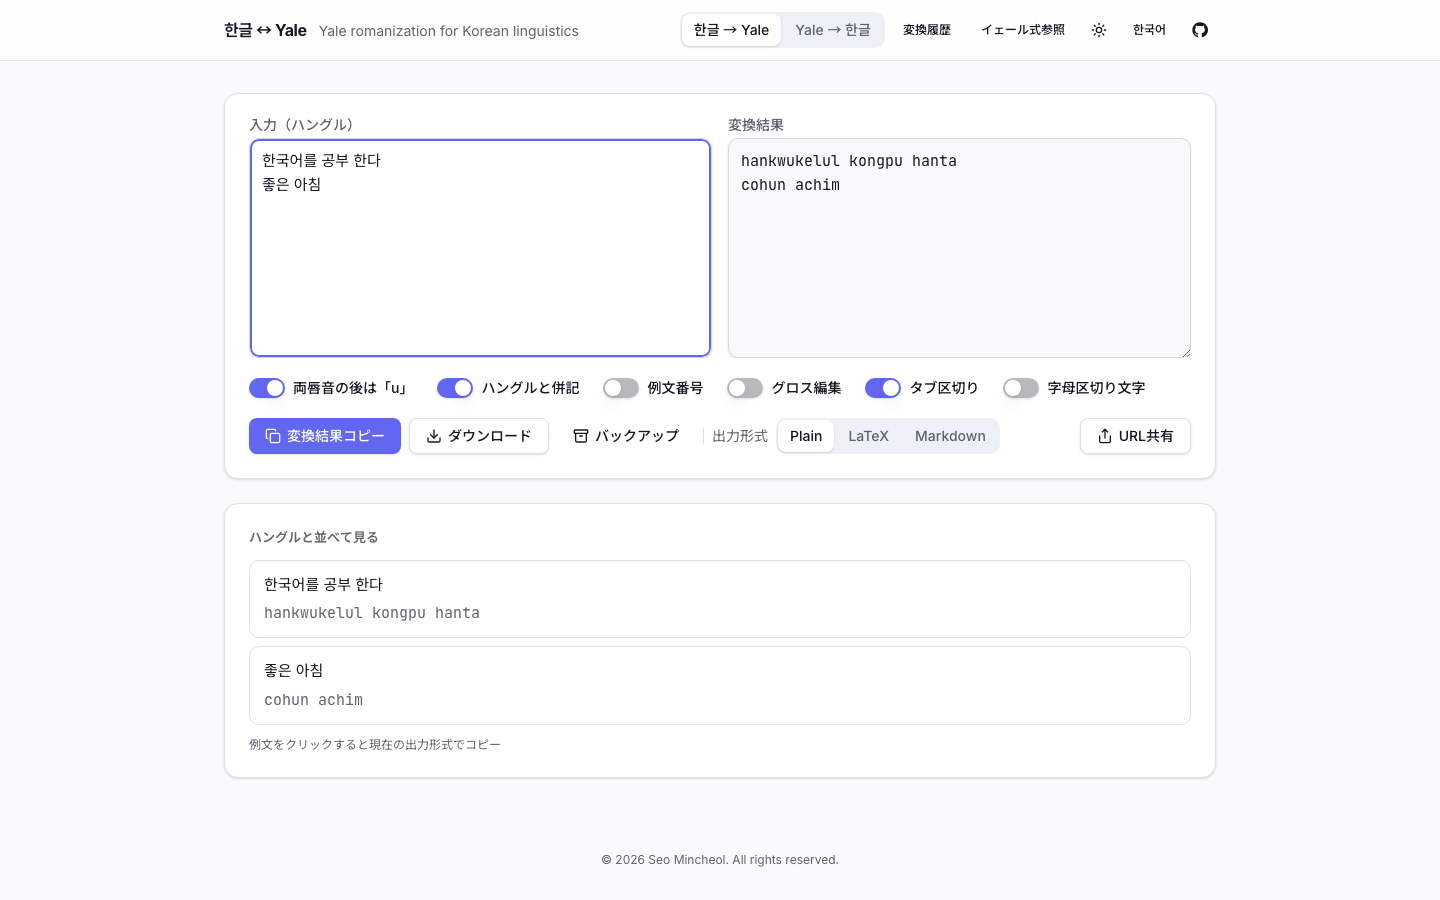
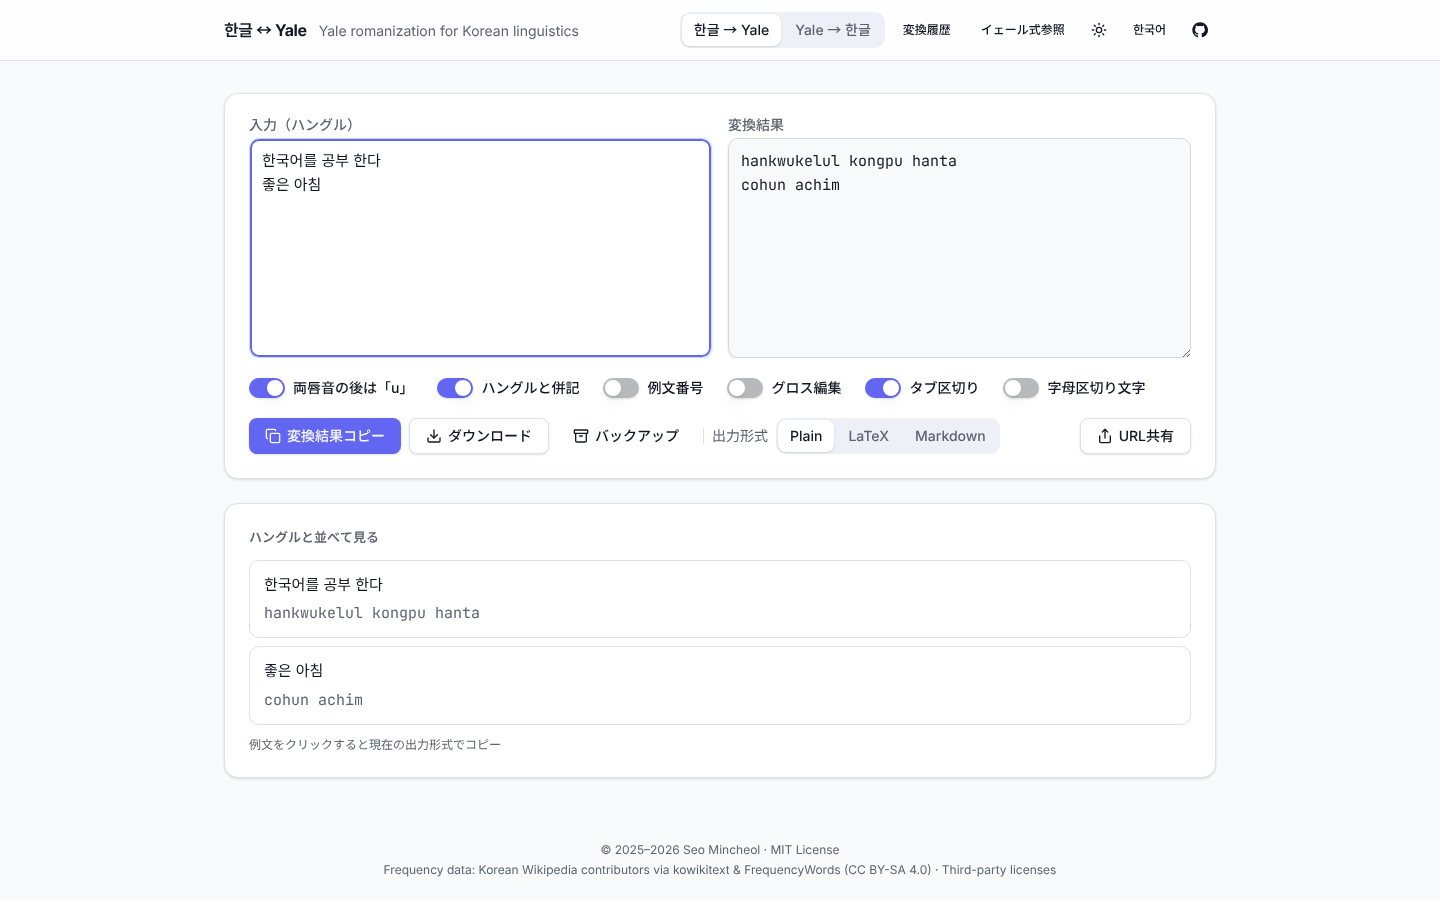
Yale 예시를 표준 표기로 수정·문서 갱신
- '학생'의 Yale은 haksayng — 논문 예문의 비표준 표기 hakseng을 예시로 쓰던 곳을
  표준 Yale 예시로 교체: 사전 추가 칸 placeholder(kulemulo → 그러므로),
  직접 입력 힌트(마리-는), 코드 주석, README, 테스트(tuli → 드리, aphu-n → 아픈 등)
- 문헌 고유 표기를 예로 드는 곳(ki = 키, ne = 네)은 표준 Yale(khi, ney)과 다르다는 점을 명시
- README: 사용자 사전 화면 스크린샷 추가, 받침으로 시작하는 어미 표기, 헤더 '辞書' 버튼,
  Yale→한글 인터리니어의 복사 동작 설명. 메인 스크린샷을 현재 화면(푸터 포함)으로 갱신

Claude-Session: https://claude.ai/code/session_01XGPb8fSCZ9AghFQzxih97f

Changed region(s): [[0.2812, 0.9333, 0.5938, 0.9956], [0.6562, 0.9644, 0.6875, 0.9956], [0.625, 0.0311, 0.6562, 0.0622]]

diff --git a/tests/user-dict.test.js b/tests/user-dict.test.js
@@ -35,16 +35,18 @@ describe('고친 결과 → 사전 항목 (learnCorrection)', () => {
   });
 
   test('직접 입력: 하이픈으로 나눈 형태는 형태소별로', () => {
-    assert.deepEqual(learnCorrection('hakseng-i', '학생-이', opts()), morpheme('hakseng', '학생'));
+    assert.deepEqual(learnCorrection('tuli-ess-ta', '드리-었-다', opts()), morpheme('tuli', '드리'));
   });
 
   test('1음절 형태소는 어절 항목 (표준 Yale과 충돌하기 쉬움)', () => {
+    // 문헌 고유 표기를 고치는 경우: 키(표준 khi)를 ki로, 네(표준 ney)를 ne로 쓴 문헌.
+    // 형태소로 기억하면 표준 Yale의 ki(기)·ne(너)까지 바뀌므로 그 어절에만
     assert.deepEqual(learnCorrection('ki-ka', '키-가', opts()), word('ki-ka', '키-가'));
     assert.deepEqual(learnCorrection('ne', '네', opts()), word('ne', '네'));
   });
 
   test('하이픈 없이 입력하면 어절 항목(값 그대로)', () => {
-    assert.deepEqual(learnCorrection('yeppu-n', '예쁜', opts()), word('yeppu-n', '예쁜'));
+    assert.deepEqual(learnCorrection('aphu-n', '아픈', opts()), word('aphu-n', '아픈'));
   });
 
   test('변환되지 않던 구간(영어 이름)은 1음절이어도 형태소 항목', () => {
@@ -61,7 +63,7 @@ describe('고친 결과 → 사전 항목 (learnCorrection)', () => {
   });
 
   test('바뀐 것이 없거나 받을 수 없는 값이면 null', () => {
-    assert.equal(learnCorrection('hakseng-i', '학성-이', opts()), null);
+    assert.equal(learnCorrection('tuli-ess-ta', '들이-었-다', opts()), null);
     assert.equal(learnCorrection('ka', '가 나', opts()), null); // 공백
     assert.equal(learnCorrection('ka', '   ', opts()), null);
     assert.equal(learnCorrection('123', '일이삼', opts()), null); // Yale run 없음
@@ -98,24 +100,24 @@ describe('고친 결과 → 사전 항목 (learnCorrection)', () => {
     });
     const d = dict({}, { mali: '마리' });
     assert.deepEqual(describeToken('Mali-ka', opts(d)).hits, [{ scope: 'morphemes', key: 'mali', value: '마리' }]);
-    assert.equal(describeToken('yeppu-n', opts(dict({ 'yeppu-n': '예쁜' }))).prefill, '예쁜');
+    assert.equal(describeToken('aphu-n', opts(dict({ 'aphu-n': '아픈' }))).prefill, '아픈');
     assert.equal(describeToken('1992', opts()), null);
   });
 });
 
 describe('사전 데이터 처리', () => {
   test('isEditableToken', () => {
-    assert.ok(isEditableToken('hakseng-i,'));
+    assert.ok(isEditableToken('tuli-ess-ta,'));
     assert.ok(!isEditableToken('-'));
     assert.ok(!isEditableToken('-(u)n'));
   });
 
   test('dictFromJSON: 잘못된 키·값은 버린다', () => {
     const d = dictFromJSON({
-      words: { 'Ki-Ka': ' 키-가 ', 'ka ka': '가가', '-ko': '고', ok: 1 },
-      morphemes: { hakseng: '학생', 'mali-nun': '마리는', __proto__x: '', empty: '', sp: '가 나', ['x'.repeat(3)]: '가'.repeat(61) },
+      words: { 'Aphu-N': ' 아프-ㄴ ', 'ka ka': '가가', '-ko': '고', ok: 1 },
+      morphemes: { mali: '마리', 'mali-nun': '마리는', __proto__x: '', empty: '', sp: '가 나', ['x'.repeat(3)]: '가'.repeat(61) },
     });
-    assert.deepEqual(dictToJSON(d), { words: { 'ki-ka': '키-가' }, morphemes: { hakseng: '학생' } });
+    assert.deepEqual(dictToJSON(d), { words: { 'aphu-n': '아프-ㄴ' }, morphemes: { mali: '마리' } });
     assert.deepEqual(dictToJSON(dictFromJSON('broken')), { words: {}, morphemes: {} });
     assert.deepEqual(dictToJSON(dictFromJSON(JSON.parse('{"morphemes":{"__proto__":"x"}}'))).morphemes, {});
   });
@@ -138,10 +140,10 @@ describe('사전 데이터 처리', () => {
   });
 
   test('entriesUsedIn: 입력 변환에 실제로 쓰인 항목만', () => {
-    const d = dict({ 'ki-ka': '키-가', ne: '네' }, { hakseng: '학생', mali: '마리', ka: '까' });
-    assert.deepEqual(dictToJSON(entriesUsedIn('hakseng-i ki-ka (ku) 1992', d)), {
-      words: { 'ki-ka': '키-가' }, // ki-ka 안의 ka는 어절 항목에 가려 쓰이지 않음
-      morphemes: { hakseng: '학생' },
+    const d = dict({ 'mali-ka': '마리-가', 'aphu-n': '아프-ㄴ' }, { tuli: '드리', mali: '머리', ka: '까' });
+    assert.deepEqual(dictToJSON(entriesUsedIn('tuli-ess-ta Mali-ka (ku) 1992', d)), {
+      words: { 'mali-ka': '마리-가' }, // Mali-ka 안의 mali·ka는 어절 항목에 가려 쓰이지 않음
+      morphemes: { tuli: '드리' },
     });
   });
 });

diff --git a/tests/y2h-dict.test.js b/tests/y2h-dict.test.js
@@ -59,30 +59,38 @@ describe('공범주·지표 표기', () => {
   });
 });
 
-describe('사용자 사전 (탐욕 폴백)', () => {
+// 예시는 표준 Yale에서 빈도 데이터가 1위를 틀리는 어형 — 사전으로 바로잡는 전형적인 경우
+describe('사용자 사전 (빈도 데이터 주입)', () => {
+  before(() => {
+    const data = JSON.parse(readFileSync(join(__dirname, '..', 'data', 'syllable-freq.json'), 'utf8'));
+    setFrequencyData({ syllable: data.u, bigram: data.b, word: data.w });
+  });
+  after(() => setFrequencyData({}));
+
   test('형태소 항목은 다른 어절 안에서도 쓰인다', () => {
-    const d = dict({}, { hakseng: '학생' });
-    assert.equal(reverseConvert('hakseng-i hakseng-tul-ul', { dict: d }), '학생이 학생들을');
-    assert.equal(reverseConvert('hakseng-i', { dict: d, keepHyphens: true }), '학생-이');
-    assert.equal(reverseConvert('hakseng', { dict: d }), '학생');
+    const d = dict({}, { tuli: '드리' }); // 엔진 1위는 들이
+    assert.equal(reverseConvert('tuli-ess-ta tuli-ko', { dict: d }), '드리었다 드리고');
+    assert.equal(reverseConvert('tuli-ess-ta', { dict: d, keepHyphens: true }), '드리-었-다');
+    assert.equal(reverseConvert('tuli', { dict: d }), '드리');
   });
 
   test('어절 항목(구간별 값): 종성 결합·하이픈 표시는 평소대로', () => {
-    const d = dict({ 'yeppu-n': '예쁘-ㄴ' });
-    assert.equal(reverseConvert('yeppu-n', { dict: d }), '예쁜');
-    assert.equal(reverseConvert('yeppu-n', { dict: d, keepHyphens: true }), '예쁘-ㄴ');
-    assert.equal(reverseConvert('(yeppu-n)', { dict: d }), '(예쁜)');
+    const d = dict({ 'aphu-n': '아프-ㄴ' }); // 엔진 1위는 앞은
+    assert.equal(reverseConvert('aphu-n', { dict: d }), '아픈');
+    assert.equal(reverseConvert('aphu-n', { dict: d, keepHyphens: true }), '아프-ㄴ');
+    assert.equal(reverseConvert('(aphu-n)', { dict: d }), '(아픈)');
   });
 
   test('어절 항목(구간 수가 다른 값): 값 그대로', () => {
-    const d = dict({ 'yeppu-n': '예쁜' });
-    assert.equal(reverseConvert('yeppu-n', { dict: d, keepHyphens: true }), '예쁜');
+    const d = dict({ 'aphu-n': '아픈' });
+    assert.equal(reverseConvert('aphu-n', { dict: d, keepHyphens: true }), '아픈');
   });
 
   test('어절 항목은 어절 전체가 같을 때만', () => {
+    // 문헌 고유 표기: 네(표준 Yale은 ney)를 ne로 쓰는 경우. 표준 Yale의 ne(너)가 든 형태소에는 영향 없음
     const d = dict({ ne: '네' });
     assert.equal(reverseConvert('ne kes', { dict: d }), '네 것');
-    assert.equal(reverseConvert('mek-ess-ne', { dict: d }), '먹었너');
+    assert.equal(reverseConvert('ne-nun', { dict: d }), '너는');
   });
 
   test('어절 항목이 형태소 항목보다 우선', () => {
@@ -131,8 +139,8 @@ describe('후보의 구간별 출력(parts)·사전 표시 (빈도 데이터 주
   });
 
   test('값 그대로 쓰는 어절 항목은 parts 없음', () => {
-    const [c] = parseYaleWordCandidates('yeppu-n,', { dict: dict({ 'yeppu-n': '예쁜' }) });
-    assert.deepEqual([c.hangul, c.parts, c.dict], ['예쁜,', null, true]);
+    const [c] = parseYaleWordCandidates('aphu-n,', { dict: dict({ 'aphu-n': '아픈' }) });
+    assert.deepEqual([c.hangul, c.parts, c.dict], ['아픈,', null, true]);
   });
 });
 
@@ -150,6 +158,6 @@ describe('토큰 구성 (사전 학습용)', () => {
   });
 
   test('yaleRunsIn', () => {
-    assert.deepEqual(yaleRunsIn('hakseng-i (ku) 1992').map((r) => r.key), ['hakseng-i', 'ku']);
+    assert.deepEqual(yaleRunsIn('tuli-ess-ta (ku) 1992').map((r) => r.key), ['tuli-ess-ta', 'ku']);
   });
 });

diff --git a/src/lib/user-dict.ts b/src/lib/user-dict.ts
@@ -1,6 +1,6 @@
 // 사용자 사전 — 후보 창에서 고르거나 직접 입력한 변환을 기억해 Yale→한글 변환에 우선 적용한다 (2026-10)
 //  - morphemes(형태소): '-'·'.'로 나뉜 구간 하나가 키와 같으면 그 구간을 값으로
-//    (hakseng → 학생이면 hakseng-i, hakseng-ul 모두 적용)
+//    (mali → 마리면 Mali-nun, Mali-ka 모두 적용)
 //  - words(어절): 어절의 Yale 부분 전체가 키와 같을 때만. 값이 구간 수만큼 '-'로 나뉘어 있으면 구간별 값
 //    (하이픈 표시·종성 결합은 평소대로), 아니면 값 문자열 그대로
 // 키는 소문자 Yale. 실제 적용은 엔진(y2h.js rankRun)이 opts.dict로 받아서 한다
@@ -141,7 +141,8 @@ export function describeToken(token: string, opts: ConvertOpts): TokenEditInfo |
 // 고친 결과 → 사전 변경. value = 후보 창에서 고른 후보, 또는 직접 입력한 문자열(Yale 본체 부분의 한글).
 // - 엔진 결과(사전 없이)로 되돌린 것이면 이 토큰에 쓰인 항목을 지운다
 // - 구간별로 맞출 수 있고, 바뀐 구간이 모두 2음절 이상이거나 원래 변환되지 않던 구간(John 등)이면
-//   형태소 항목으로 — 다른 어절에서도 쓰인다. 1음절 형태소(ki → 키 등)는 표준 Yale과 충돌하기 쉬워 어절 항목으로
+//   형태소 항목으로 — 다른 어절에서도 쓰인다. 1음절 형태소는 표준 Yale과 충돌하기 쉬워 어절 항목으로
+//   (khi(키)를 ki로 쓰는 문헌의 ki → 키를 형태소로 기억하면 표준 Yale의 ki(기)까지 바뀐다)
 // - 그 밖(구간 수가 다르게 입력, 자음 형태소를 바꿈 등)은 어절 항목
 // 바뀐 것이 없으면 null
 export function learnCorrection(
@@ -210,7 +211,7 @@ export function learnCorrection(
   return { add: [{ scope: 'words', key: info.key, value: parts.join('-') }], remove: [] };
 }
 
-// 토스트용 요약: "hakseng → 학생, ki-ka → 키-가"
+// 토스트용 요약: "mali → 마리, aphu-n → 아프-ㄴ"
 export function summarizeEntries(entries: { key: string; value?: string }[]): string {
   return entries.map((e) => (e.value === undefined ? e.key : `${e.key} → ${e.value}`)).join(', ');
 }

diff --git a/README.md b/README.md
@@ -121,10 +121,12 @@ npm run typecheck
 | `ka-ss-ta` | 갔다 | 가-ㅆ-다 |
 | `-ko`, `mek-`, `-ess-` | -고, 먹-, -었- | （同左） |
 | `-(u)n`, `-(u)l kes` | -(으)ㄴ, -(으)ㄹ 것 | （同左） |
+| `sa-nta`, `ka-lkka` | 산다, 갈까 | 사-ㄴ다, 가-ㄹ까 |
 
 - 既定では、語中の `-` は取り除いてそのまま読めるハングルにします（`-` で区切られた各部分の中は確率変換なので、曖昧な語は候補から選べます）。
 - 語頭・語末の `-` は引用形の印として残します。
 - 子音だけの形態素は、括弧やハイフンに隣接するときに字母（ㄴ・ㄹ・ㅆ など）で表示します。`NP` や `pp.` のような略語は変換しません。
+- 子音で始まる語尾の表記（`-nta`、`-lkka`、`-psita` など）は、その子音を前の音節のパッチムとして扱います。
 
 ### 英語の名前・記号
 
@@ -135,10 +137,14 @@ npm run typecheck
 
 語の修正（候補の選択・直接入力）は、ブラウザ内（`localStorage`）のユーザー辞書に記憶され、次の変換から自動で使われます。辞書の項目が使われた語には実線の下線が付きます。
 
-- **形態素の項目** — 直接入力欄にはハイフンで区切った形（例: `hakseng-i` → `학성-이`）が入っているので、区切りを残したまま直すと形態素ごとに記憶します。2音節以上の形態素（`hakseng` → `학생`）や英語の名前は、`hakseng-ul` など他の語の中でも使われます。
-- **語の項目** — 1音節の形態素（`ki` → `키` など）は標準の Yale と衝突しやすいため、その語全体（`ki-ka` → `키-가`）が一致するときだけ使います。区切りを消して入力した場合も語の項目になります。
+<p align="center">
+  <img src="assets/screenshots/y2h-dictionary.png" alt="下段の語をクリックして候補を選ぶか直接修正する画面">
+</p>
+
+- **形態素の項目** — 直接入力欄にはハイフンで区切った形が入っています（例: `Mali-nun` → `말이-는`）。区切りを残したまま `마리-는` と直すと、形態素ごとに記憶します。2音節以上の形態素（`mali` → `마리`）や英語の名前は、`Mali-ka` など他の語の中でも使われます。
+- **語の項目** — 1音節の形態素は、その語全体が一致するときだけ使います。文献独自の表記を直す場合を想定しています。例えば `khi`（키）を `ki` と書く文献で `ki-ka` を `키-가` と直しても、標準の Yale の `ki`（기）には影響しません。区切りを消して入力した場合も語の項目になります。
 - 「辞書に記憶」のチェックを外して修正すると、そのセッションだけに適用されます。
-- ヘッダーの「ユーザー辞書」（Yale→ハングルのとき表示）から、項目の確認・検索・追加・削除、JSON ファイルへの書き出し・読み込み（別のブラウザや PC への移行用）ができます。
+- ヘッダーの「辞書」ボタン（Yale→ハングルのときに表示。スマートフォンでは本のアイコン）から、項目の確認・検索・追加・削除、JSON ファイルへの書き出し・読み込み（別のブラウザや PC への移行用）ができます。
 - 修正を元に戻すには、語をクリックして「使われている辞書の項目」の × を押します。
 
 ---
@@ -220,7 +226,7 @@ URLパラメータがある場合は、ブラウザの`localStorage`設定より
 
 ## コピー機能
 - 「タブ区切り」スイッチ（デフォルト ON）が ON のとき、Plain 形式のコピーは半角空白を「タブ」に置換します。OFF にすると半角空白のまま コピーされます（設定は次回起動時にも保持）。
-- この設定は3つのコピー経路すべてに適用されます: 「変換結果コピー」ボタン／「変換結果」内のテキスト選択（自動コピー）／「ハングルと並べて見る」の例文クリック。
+- この設定は3つのコピー経路すべてに適用されます: 「変換結果コピー」ボタン／「変換結果」内のテキスト選択（自動コピー）／「ハングルと並べて見る」の例文クリック（Yale→ハングルでは下段の語をクリックすると修正欄が開くので、上段や余白をクリックします）。
 - LaTeX・Markdown 形式はそれぞれの構文を壊さないよう、常にそのままコピーされます。
 
 「半角空白」の代わりに「タブ」を挿入している理由は、Wordなどで[グロス](https://ja.wikipedia.org/wiki/%E3%82%B0%E3%83%AD%E3%82%B9_(%E8%A8%80%E8%AA%9E%E5%AD%A6))を付けるときに、複数行の調整が便利だからです。
